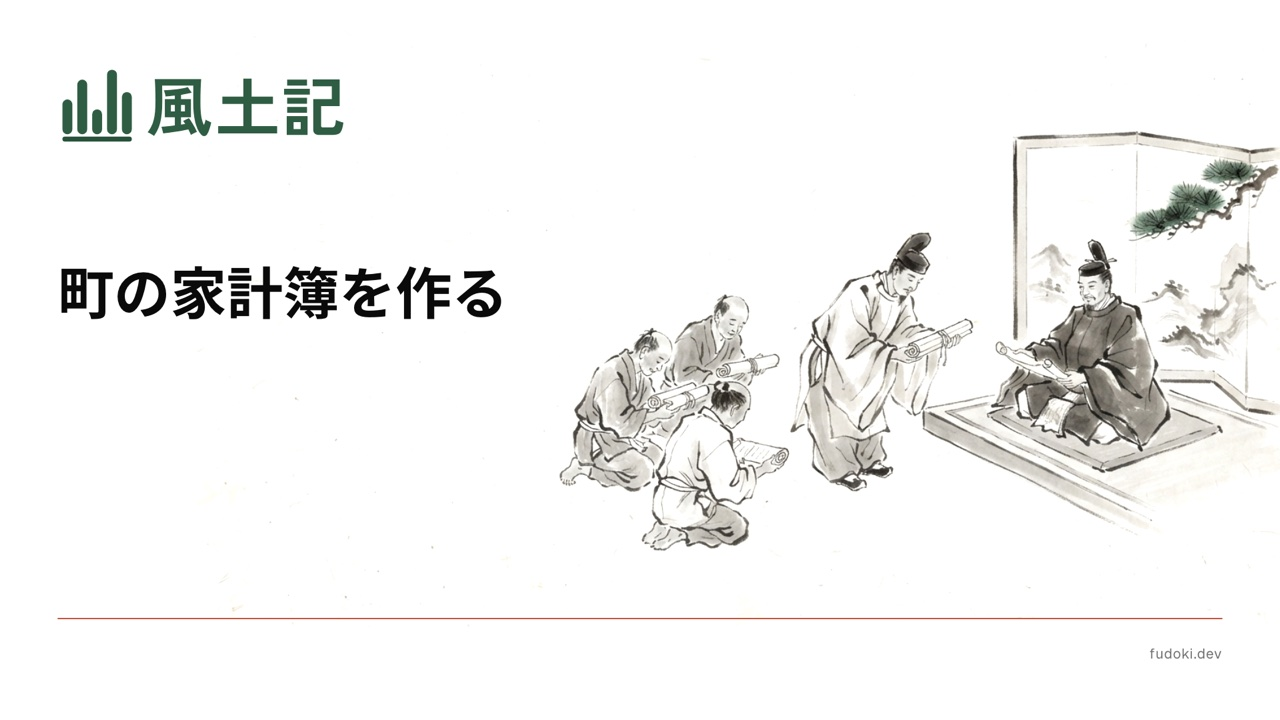
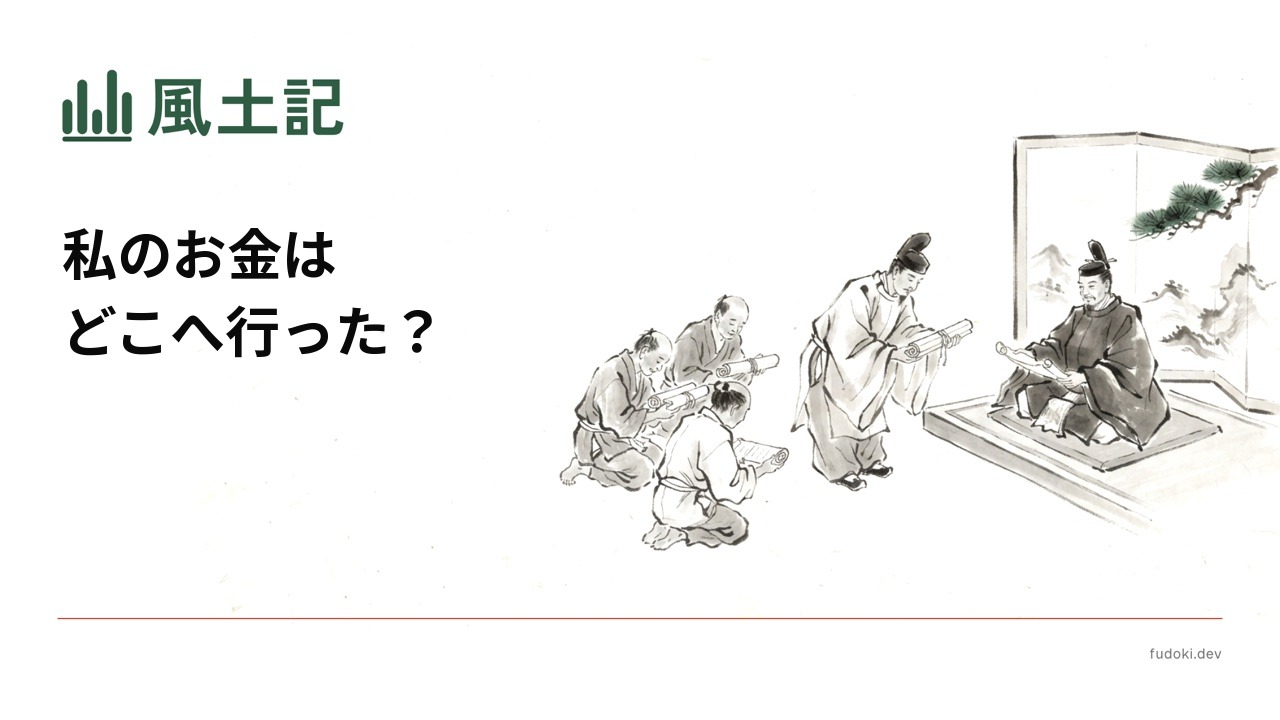
docs: README の表紙の見出しを「私のお金はどこへ行った？」に差し替える
Claude-Session: https://claude.ai/code/session_01LjGAVinGQc2foJuogMYQ2M

Changed region(s): [[0.0312, 0.3056, 0.4062, 0.5194]]

diff --git a/README.md b/README.md
@@ -1,4 +1,4 @@
-<img src="docs/brand/cover.jpg" alt="風土記 — 町の家計簿を作る。諸国の使いが巻物の報告を役人に差し出す墨絵" width="640">
+<img src="docs/brand/cover.jpg" alt="風土記 — 私のお金はどこへ行った？ 諸国の使いが巻物の報告を役人に差し出す墨絵" width="640">
 
 [![CI](https://github.com/fudoki-hensansitu/fudoki/actions/workflows/verify.yml/badge.svg)](https://github.com/fudoki-hensansitu/fudoki/actions/workflows/verify.yml)
 [![License: MIT (code)](https://img.shields.io/badge/license-MIT%20(code)-blue)](#license)
